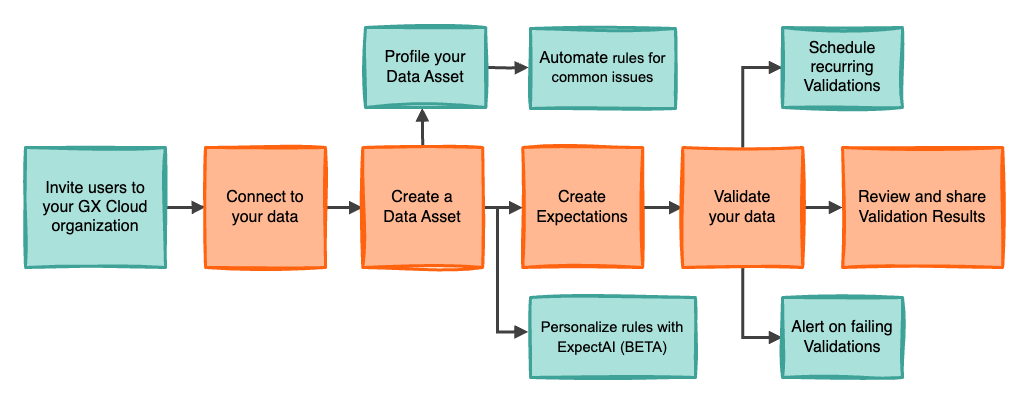
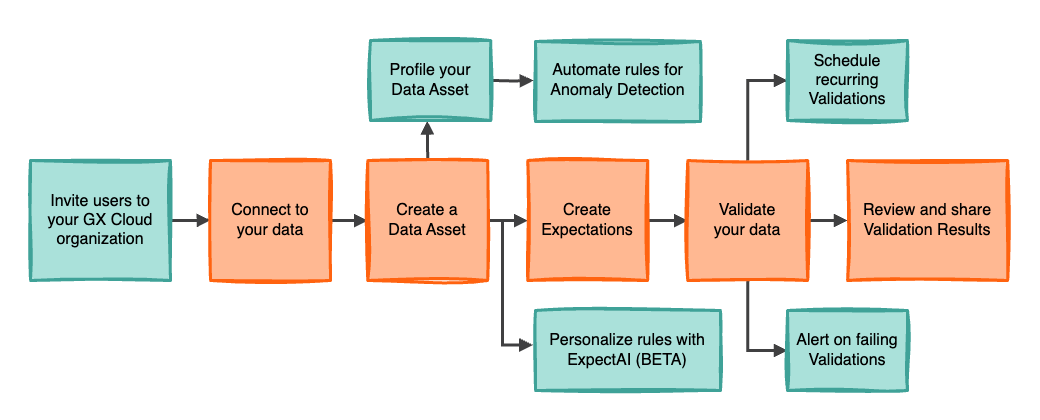
[DOCS] Anomaly Detection (#11172)

Pull request: [DOCS] Anomaly Detection
Resolves https://greatexpectations.atlassian.net/browse/DOC-1127 according to the plan linked in that issue

- [x] Description of PR changes above includes a link to [an existing GitHub issue](https://github.com/great-expectations/great_expectations/issues)
- [x] PR title is prefixed with one of: [BUGFIX], [FEATURE], [DOCS], [MAINTENANCE], [CONTRIB], [MINORBUMP]
- [ ] Code is linted - run `invoke lint` (uses `ruff format` + `ruff check`)
- [x] Appropriate tests and docs have been updated

For more information about contributing, visit our [community resources](https://docs.greatexpectations.io/docs/core/introduction/community_resources#contribute-code-or-documentation).

After you submit your PR, keep the page open and **monitor the statuses of the various checks made by our continuous integration process at the bottom of the page. Please fix any issues that come up** and [reach out on Slack](https://greatexpectations.io/slack) if you need help. Thanks for contributing!

Changed region(s): [[0.0, 0.0597, 0.9942, 0.9552], [0.3417, 0.0597, 0.6835, 0.3284], [0.8388, 0.7164, 0.8699, 0.7463]]

diff --git a/docs/docusaurus/docs/cloud/expectations/manage_expectations.md b/docs/docusaurus/docs/cloud/expectations/manage_expectations.md
@@ -134,8 +134,8 @@ To clear the Expectation condition, click the clear button located on the right-
 
 8. Optional. Run a Validation. See [Run a Validation](/cloud/validations/manage_validations.md#run-a-validation).
 
-:::tip Automate rules for common data quality issues
-When you [create a new Data Asset](/cloud/data_assets/manage_data_assets.md#add-a-data-asset-from-an-existing-data-source), you can choose to automatically generate Expectations for that Data Asset that detect column changes, non-increasing volume, and changes to the percentage of null values in each column.
+:::tip Automate rules for Anomaly Detection
+When you [create a new Data Asset](/cloud/data_assets/manage_data_assets.md#add-a-data-asset-from-an-existing-data-source), you can choose to automatically generate Anomaly Detection Expectations for that Data Asset that detect column changes, non-increasing volume, and changes to the percentage of null values in each column.
 :::
 
 ## Generate Expectations with ExpectAI <span class="beta">Beta</span>
@@ -166,7 +166,7 @@ If your Data Asset has at least one DATE or DATETIME column, you can define a Ba
 
 2. In the **Data Assets** list, click the Data Asset name.
 
-3. Click **Define batch**.
+3. Next to the current batch configuration, click <img src="/img/pencil.png" alt="pencil icon" width="20" height="20"/> **Edit batch**.
 
 4. Choose how to **Validate by**. Select the **Entire Asset** tab to provide all Data Asset records to your Expectations and validations, or select one of the **Year**/**Month**/**Day** tabs to use subsets of Data Asset records for your Expectations and validations. **Year** partitions Data Asset records by year, **Month** partitions Data Asset records by year and month, **Day** partitions Data Asset records by year, month, and day.
 
@@ -178,11 +178,13 @@ If your Data Asset has at least one DATE or DATETIME column, you can define a Ba
 
 2. In the **Data Assets** list, click the Data Asset name.
 
-3. Click **Edit Expectation** for the Expectation that you want to edit.
+3. Find the Expectation that you want to edit.
 
-4. Edit the Expectation configuration.
+4. Click <img src="/img/pencil.png" alt="pencil icon" width="20" height="20"/> **Edit Expectation** for the Expectation that you want to edit.
 
-5. Click **Save**.
+5. Edit the Expectation configuration.
+
+6. Click **Save**.
 
 ## Delete an Expectation
 
@@ -190,13 +192,15 @@ If your Data Asset has at least one DATE or DATETIME column, you can define a Ba
 
 2. In the **Data Assets** list, click the Data Asset name.
 
-3. Click **Delete Expectation** for the Expectation you want to delete.
+3. Find the Expectation that you want to delete.
+
+4. Click <img src="/img/trash.png" alt="trash icon" width="20" height="20"/> **Delete Expectation** for the Expectation that you want to delete.
 
    :::tip You can delete Expectations in bulk
-    If you want to delete all Expectations that test for a certain data quality issue, you can instead click **Bulk-delete Expectations** for the relevant category.
+    If you want to delete all Expectations that test for a certain data quality issue, you can instead click <img src="/img/trash.png" alt="trash icon" width="20" height="20"/> **Bulk-delete Expectations** for the relevant category.
     :::
 
-4. Click **Yes, delete Expectation**.
+5. Click **Delete**.
 
 
 

diff --git a/docs/docusaurus/docs/cloud/overview/automating_rules.md b/docs/docusaurus/docs/cloud/overview/automating_rules.md
@@ -1,16 +1,16 @@
 ---
 title: 'Automating data quality rules'
-description: Generate data quality rules to more quickly achieve test coverage for your data.
+description: Generate AI-recommended data quality rules and use Anomaly Detection to more quickly achieve test coverage for your data.
 ---
 
 With GX Cloud, you can automatically generate data quality rules to more quickly achieve test coverage for your data. This page provides an overview of the following options:
 
-- Automating [standard rules](#monitoring-common-issues) as part of adding a new Data Asset.
-- Generating [personalized AI-recommended rules](#personalizing-recommendations-with-expectai-beta) for an existing Data Asset.
+- Automating [Anomaly Detection](#anomaly-detection) rules as part of adding a new Data Asset.
+- Generating [personalized AI-recommended rules](#personalized-recommendations-with-expectai-beta) for an existing Data Asset.
 
-## Monitoring common issues
+## Anomaly Detection
 
-When you [add a new Data Asset](/cloud/data_assets/manage_data_assets.md), GX Cloud by default generates Expectations to test the following common data quality issues:
+When you [add a new Data Asset](/cloud/data_assets/manage_data_assets.md), GX Cloud by default generates Expectations to detect anomalies in the following:
 - [Schema](#schema)
 - [Volume](#volume)
 - [Completeness](#completeness)
@@ -19,7 +19,7 @@ When you [add a new Data Asset](/cloud/data_assets/manage_data_assets.md), GX Cl
 
 ### Schema
 
-To detect schema changes, we automatically generate a rule to [**expect table columns to match set**](/reference/learn/data_quality_use_cases/schema.md#expect-table-columns-to-match-set) using the Data Asset’s initial columns as the set to match. If the number or names of columns in the Data Asset change, this Expectation will fail.
+To detect schema anomalies, we automatically generate a rule to [**expect table columns to match set**](/reference/learn/data_quality_use_cases/schema.md#expect-table-columns-to-match-set) using the Data Asset’s initial columns as the set to match. If the number or names of columns in the Data Asset change, this Expectation will fail.
 
 ### Volume
 
@@ -27,7 +27,7 @@ To detect non-increasing volume, we automatically generate a rule to [**expect t
 
 ### Completeness
 
-To detect completeness changes, we automatically generate rules for every column to [**expect column values to not be null**](/reference/learn/data_quality_use_cases/missingness.md#expect-column-values-to-not-be-null) and/or [**expect column values to be null**](/reference/learn/data_quality_use_cases/missingness.md#expect-column-values-to-be-null). The Expectation(s) and parameters for a column depend on the column's initial null percentage.
+To detect completeness anomalies, we automatically generate rules for every column to [**expect column values to not be null**](/reference/learn/data_quality_use_cases/missingness.md#expect-column-values-to-not-be-null) and/or [**expect column values to be null**](/reference/learn/data_quality_use_cases/missingness.md#expect-column-values-to-be-null). The Expectation(s) and parameters for a column depend on the column's initial null percentage.
 
 - If a column initially has no null values, GX generates one completeness Expectation to test that the column continues to have 100% non-null values.
 - If a column initially has all null values, GX generates one completeness Expectation to test that the column continues to have 100% null values.
@@ -37,7 +37,7 @@ If the null percentage changes at all for a column that started with all null va
 
 
 
-## Personalizing recommendations with ExpectAI <span class="beta">Beta</span>
+## Personalized recommendations with ExpectAI <span class="beta">Beta</span>
 
 [ExpectAI (BETA)](/cloud/expectations/manage_expectations.md#generate-expectations-with-expectai-beta) performs deep analysis on a given Data Asset to set Expectations based on patterns in the data. These AI-recommended data quality rules are sometimes based on anomalies detected in the data, so they may fail on the first validation to bring your attention to potential problems.  
 

diff --git a/docs/docusaurus/docs/reference/learn/data_quality_use_cases/schema.md b/docs/docusaurus/docs/reference/learn/data_quality_use_cases/schema.md
@@ -17,7 +17,7 @@ established rules, such as verifying column names, data types, and the presence 
 Schema changes, whether planned or unexpected, can significantly impact data integrity and the
 performance of data-dependent systems.
 
-Great Expectations (GX) provides schema-focused Expectations that allow you to define and enforce the structural integrity of your datasets. You can automatically generate some of these Expectations when you add a new Data Asset in GX Cloud. These tools enable you to establish robust schema validation within your data pipelines, helping to catch and address schema-related issues before they propagate through your data ecosystem. This guide will walk you through leveraging these Expectations to implement effective schema validation in your data workflows.
+Great Expectations (GX) provides schema-focused Expectations that allow you to define and enforce the structural integrity of your datasets. You can enable Anomaly Detection to automatically generate some of these Expectations when you add a new Data Asset in GX Cloud. These tools enable you to establish robust schema validation within your data pipelines, helping to catch and address schema-related issues before they propagate through your data ecosystem. This guide will walk you through leveraging these Expectations to implement effective schema validation in your data workflows.
 
 ## Prerequisite knowledge
 This article assumes basic familiarity with GX components and workflows. See the [GX Overview](/core/introduction/gx_overview.md) for additional content on GX fundamentals.
@@ -37,7 +37,7 @@ You can [access this dataset](https://raw.githubusercontent.com/great-expectatio
 
 ## Key schema Expectations
 
-GX offers a collection of Expectations for schema validation, all of which can be added directly from the GX Cloud UI or using the GX Core Python library. Some of them can be automatically generated when you add a new Data Asset using GX Cloud. 
+GX offers a collection of Expectations for schema validation, all of which can be added directly from the GX Cloud UI or using the GX Core Python library. Some of them can be automatically generated by enabling Anomaly Detection when you add a new Data Asset using GX Cloud. 
 
 The schema Expectations provide basic practical solutions for common validation scenarios and can also be used to satisfy more nuanced validation needs.
 
@@ -139,7 +139,7 @@ flexibility where column presence is more critical than their sequence.
 ```
 
 :::tip Automate this rule
-When you [create a new Data Asset with GX Cloud](/cloud/data_assets/manage_data_assets.md#add-a-data-asset-from-an-existing-data-source), you can choose to automatically generate this Expectation to test that columns don't diverge from the initial set over time.
+When you [create a new Data Asset with GX Cloud](/cloud/data_assets/manage_data_assets.md#add-a-data-asset-from-an-existing-data-source), you can enable Anomaly Detection to automatically generate this Expectation to test that columns don't diverge from the initial set over time.
 :::
 
 <small>View `ExpectTableColumnsToMatchSet` in the [Expectation
@@ -173,7 +173,7 @@ Gallery](https://greatexpectations.io/expectations/expect_table_column_count_to_
 
 ## Examples
 
-**GX Cloud** provides a visual interface to create and run schema validation workflows. The GX Cloud workflow for validating data schemas is to create Data Assets with automatically generated Expectations, manually define additional Expectations, run Validations, and review Validation Results.
+**GX Cloud** provides a visual interface to create and run schema validation workflows. The GX Cloud workflow for validating data schemas is to create Data Assets with automatically generated Anomaly Detection Expectations, manually define additional Expectations, run Validations, and review Validation Results.
 
 **GX Core** can be used to complement and extend the capabilities of GX Cloud to programmatically implement custom validation workflows. The examples provided in this section feature use cases that leverage GX Core to achieve schema validation.
 

diff --git a/docs/docusaurus/docs/cloud/schedules/manage_schedules.md b/docs/docusaurus/docs/cloud/schedules/manage_schedules.md
@@ -4,7 +4,7 @@ title: 'Manage schedules'
 description: Create and manage schedules for Validations in GX Cloud.
 ---
 
-Use a schedule to automate data quality checks with GX-managed Expectations. When you add your first Expectation in the GX Cloud UI for a Data Asset, including when you choose to auto-generate Expectations, we enable a default schedule for that Asset's GX-managed Expectations. By default, GX-managed Expectations are scheduled to run every 24 hours. The first run will be at the start of the next hour after you add your first Expectation in the Cloud UI. You can keep the default schedule, edit it, or disable it.
+Use a schedule to automate data quality checks with GX-managed Expectations. When you add your first Expectation in the GX Cloud UI for a Data Asset, including when you choose to auto-generate Expectations for Anomaly Detection, we enable a default schedule for that Asset's GX-managed Expectations. By default, GX-managed Expectations are scheduled to run every 24 hours. The first run will be at the start of the next hour after you add your first Expectation in the Cloud UI. You can keep the default schedule, edit it, or disable it.
 
 :::note Schedules are for GX-managed Expectations only
 To automate data quality checks for [API-managed Expectations](/cloud/expectations/manage_expectations.md#gx-managed-vs-api-managed-expectations), use an [orchestrator](/cloud/connect/connect_airflow.md).
@@ -17,7 +17,7 @@ To automate data quality checks for [API-managed Expectations](/cloud/expectatio
 
 2. In the **Data Assets** list, click the Data Asset name.
 
-3. In the Scheduling component, click **Edit schedule**.
+3. Next to the current schedule, click <img src="/img/pencil.png" alt="pencil icon" width="20" height="20"/> **Edit schedule**.
 
 4. Change the **Frequency** and/or the **Start time** for the first run of the new schedule.
 
@@ -29,7 +29,7 @@ To automate data quality checks for [API-managed Expectations](/cloud/expectatio
 
 2. In the **Data Assets** list, click the Data Asset name.
 
-3. In the Scheduling component, click **Edit schedule**.
+3. Next to the current schedule, click <img src="/img/pencil.png" alt="pencil icon" width="20" height="20"/> **Edit schedule**.
 
 4. Pause the schedule using the **ON**/**OFF** toggle.
 

diff --git a/docs/docusaurus/docs/reference/learn/data_quality_use_cases/missingness.md b/docs/docusaurus/docs/reference/learn/data_quality_use_cases/missingness.md
@@ -5,7 +5,7 @@ title: 'Manage missing data with GX'
 
 Missing data, also known as missingness, poses a significant challenge in data quality management. Missing data occurs when expected information is absent from a dataset, often appearing as `NULL` values in databases or manifesting differently across various systems. Effectively managing this issue is crucial for maintaining data integrity and reliability since unaddressed missing data can lead to disrupted calculations, skewed analyses, and compromised data analytics tasks.
 
-Great Expectations (GX) offers a robust solution for addressing missing data through a comprehensive collection of Expectations that allow users to define and enforce data quality rules. You can automatically generate these Expectations when you add a new Data Asset in GX Cloud. By integrating GX into your data pipelines, you can establish robust validation processes that catch issues early, ensuring your dataset remains clean, consistent, and ready for accurate reporting, predictive modeling, and other advanced analytics applications.
+Great Expectations (GX) offers a robust solution for addressing missing data through a comprehensive collection of Expectations that allow users to define and enforce data quality rules. You can enable Anomaly Detection to automatically generate these Expectations when you add a new Data Asset in GX Cloud. By integrating GX into your data pipelines, you can establish robust validation processes that catch issues early, ensuring your dataset remains clean, consistent, and ready for accurate reporting, predictive modeling, and other advanced analytics applications.
 
 In this guide, you will learn how to leverage GX to effectively handle missing data. This includes applying Expectations and making informed decisions about managing various types of missingness. By following these steps, you can ensure your datasets maintain high quality, thus enabling more accurate and reliable data-driven insights.
 
@@ -29,7 +29,7 @@ In this dataset, you'll notice missing data in the `type` and `transfer_date` co
 GX provides missingness-focused Expectations to manage missing data in your datasets. These Expectations can be created using the GX Cloud UI or the GX Core Python library. 
 
 :::tip Automate these rules
-When you [create a new Data Asset](/cloud/data_assets/manage_data_assets.md#add-a-data-asset-from-an-existing-data-source), you can choose to automatically generate Expectations for each column to test that column completeness doesn't change drastically between Validation runs.
+When you [create a new Data Asset](/cloud/data_assets/manage_data_assets.md#add-a-data-asset-from-an-existing-data-source), you can enable Anomaly Detection to automatically generate Expectations for each column to test that column completeness doesn't change drastically between Validation runs.
 :::
 
 ### Expect Column Values To Not Be Null
@@ -66,7 +66,7 @@ Ensures that values within a column are `NULL`.
 
 The examples given in this section provide insight into how and when to apply missingness Expectations to identify different varieties of missing data. The focus of this guidance is on the specifics of the Expectations, rather than the overall workflow, which can be implemented using either GX Cloud or GX Core.
 
-[GX Cloud](/cloud/overview/gx_cloud_overview.md) provides a visual interface and scaling conveniences to create and run workflows for managing missing data. The GX Cloud workflow to handle data missingness is: create a Data Asset with automatically generated Expectations, run a Validation, and review Validation Results.
+[GX Cloud](/cloud/overview/gx_cloud_overview.md) provides a visual interface and scaling conveniences to create and run workflows for managing missing data. The GX Cloud workflow to handle data missingness is: create a Data Asset with automatically generated Anomaly Detection Expectations, run a Validation, and review Validation Results.
 
 [GX Core](/core/introduction/gx_overview.md) can be used to complement and extend the capabilities of GX Cloud to programmatically implement custom workflows for handling missing data.
 

diff --git a/docs/docusaurus/docs/reference/learn/data_quality_use_cases/volume.md b/docs/docusaurus/docs/reference/learn/data_quality_use_cases/volume.md
@@ -7,7 +7,7 @@ import TabItem from '@theme/TabItem';
 
 Data volume, a critical aspect of data quality, refers to the quantity of records or data points within a dataset. Managing data volume effectively is crucial for maintaining data integrity, ensuring system performance, and deriving accurate insights. Unexpected changes in data volume can signal issues in data collection, processing, or storage, potentially leading to skewed analyses or system failures. Volume management is intrinsically linked to other aspects of data quality, such as data completeness and consistency, forming a crucial part of a comprehensive data quality strategy.
 
-Great Expectations (GX) offers a powerful set of tools for monitoring and validating data volume through its volume-focused Expectations. You can automatically generate some of these Expectations when you add a new Data Asset in GX Cloud. By integrating these Expectations into your data pipelines, you can establish robust checks that ensure your datasets maintain the expected volume, catch anomalies early, and prevent downstream issues in your data workflows.
+Great Expectations (GX) offers a powerful set of tools for monitoring and validating data volume through its volume-focused Expectations. You can enable Anomaly Detection to automatically generate some of these Expectations when you add a new Data Asset in GX Cloud. By integrating these Expectations into your data pipelines, you can establish robust checks that ensure your datasets maintain the expected volume, catch anomalies early, and prevent downstream issues in your data workflows.
 
 This guide will walk you through leveraging GX to effectively manage and validate data volume, helping you maintain high-quality, reliable datasets.
 
@@ -28,7 +28,7 @@ This dataset represents daily financial transactions. In a real-world scenario, 
 
 ## Key volume Expectations
 
-GX provides several Expectations specifically designed for managing data volume, all of which can be added directly from the GX Cloud UI or using the GX Core Python library. Some of them can be automatically generated when you add a new Data Asset using GX Cloud.
+GX provides several Expectations specifically designed for managing data volume, all of which can be added directly from the GX Cloud UI or using the GX Core Python library. Some of them can be automatically generated by enabling Anomaly Detection when you add a new Data Asset using GX Cloud.
 
 ### Expect Table Row Count To Be Between
 
@@ -40,7 +40,7 @@ Ensures that the number of rows in a dataset falls within a specified range.
 ```
 
 :::tip Automate this rule
-When you [create a new Data Asset with GX Cloud](/cloud/data_assets/manage_data_assets.md#add-a-data-asset-from-an-existing-data-source), you can choose to automatically generate an instance of this Expectation that detects non-increasing volume over time.
+When you [create a new Data Asset with GX Cloud](/cloud/data_assets/manage_data_assets.md#add-a-data-asset-from-an-existing-data-source), you can enable Anomaly Detection to automatically generate an instance of this Expectation that detects non-increasing volume over time.
 :::
 
 <small>View `ExpectTableRowCountToBeBetween` in the [Expectation Gallery](https://greatexpectations.io/expectations/expect_table_row_count_to_be_between).</small>

diff --git a/docs/docusaurus/docs/cloud/connect/connect_databrickssql.md b/docs/docusaurus/docs/cloud/connect/connect_databrickssql.md
@@ -35,7 +35,7 @@ import Tabs from '@theme/Tabs';
 
 6. Click **Add x Asset(s)**.
 
-7. Decide which [common data quality issues](/docs/cloud/overview/automating_rules.md#monitoring-common-issues) you want to start monitoring. By default, GX Cloud adds Expectations to detect **Schema**, **Volume**, and **Completeness** issues. You can de-select recommendations you’d like to opt out of.
+7. Decide which [Anomaly Detection](/docs/cloud/overview/automating_rules.md#anomaly-detection) options you want to enable. By default, GX Cloud adds Expectations to detect **Schema**, **Volume**, and **Completeness** anomalies. You can de-select recommendations you’d like to opt out of.
 
 8. Click **Start monitoring** or **Finish**.
 

diff --git a/docs/docusaurus/docs/cloud/connect/connect_postgresql.md b/docs/docusaurus/docs/cloud/connect/connect_postgresql.md
@@ -60,7 +60,7 @@ import Tabs from '@theme/Tabs';
 
 6. Click **Add x Asset(s)**.
 
-7. Decide which [common data quality issues](/docs/cloud/overview/automating_rules.md#monitoring-common-issues) you want to start monitoring. By default, GX Cloud adds Expectations to detect **Schema**, **Volume**, and **Completeness** issues. You can de-select recommendations you’d like to opt out of.
+7. Decide which [Anomaly Detection](/docs/cloud/overview/automating_rules.md#anomaly-detection) options you want to enable. By default, GX Cloud adds Expectations to detect **Schema**, **Volume**, and **Completeness** anomalies. You can de-select recommendations you’d like to opt out of.
 
 8. Click **Start monitoring** or **Finish**.
 

diff --git a/docs/docusaurus/docs/cloud/connect/connect_redshift.md b/docs/docusaurus/docs/cloud/connect/connect_redshift.md
@@ -101,7 +101,7 @@ Run all queries in the [Amazon Redshift query editor v2](https://docs.aws.amazon
 
 7. Click **Add x Asset(s)**.
 
-8. Decide which [common data quality issues](/docs/cloud/overview/automating_rules.md#monitoring-common-issues) you want to start monitoring. By default, GX Cloud adds Expectations to detect **Schema**, **Volume**, and **Completeness** issues. You can de-select recommendations you'd like to opt out of.
+8. Decide which [Anomaly Detection](/docs/cloud/overview/automating_rules.md#anomaly-detection) options you want to enable. By default, GX Cloud adds Expectations to detect **Schema**, **Volume**, and **Completeness** anomalies. You can de-select recommendations you’d like to opt out of.
 
 9. Click **Start monitoring** or **Finish**.
 

diff --git a/docs/docusaurus/docs/cloud/connect/connect_snowflake.md b/docs/docusaurus/docs/cloud/connect/connect_snowflake.md
@@ -109,7 +109,7 @@ Then, you can use GX Cloud to [add a Data Asset](/cloud/data_assets/manage_data_
 
 7. Click **Add x Asset(s)**.
 
-8. Decide which [common data quality issues](/docs/cloud/overview/automating_rules.md#monitoring-common-issues) you want to start monitoring. By default, GX Cloud adds Expectations to detect **Schema**, **Volume**, and **Completeness** issues. You can de-select recommendations you’d like to opt out of.
+8. Decide which [Anomaly Detection](/docs/cloud/overview/automating_rules.md#anomaly-detection) options you want to enable. By default, GX Cloud adds Expectations to detect **Schema**, **Volume**, and **Completeness** anomalies. You can de-select recommendations you’d like to opt out of.
 
 9. Click **Start monitoring** or **Finish**.
 

diff --git a/docs/docusaurus/docs/cloud/data_assets/manage_data_assets.md b/docs/docusaurus/docs/cloud/data_assets/manage_data_assets.md
@@ -24,7 +24,7 @@ To add a Data Asset from an existing Data Source, complete the following steps:
 
 4. Click **Add x Asset(s)**.
 
-5. Decide which [common data quality issues](/docs/cloud/overview/automating_rules.md#monitoring-common-issues) you want to start monitoring. By default, GX Cloud adds Expectations to detect **Schema**, **Volume**, and **Completeness** issues. You can de-select recommendations you’d like to opt out of.
+5. Decide which [Anomaly Detection](/docs/cloud/overview/automating_rules.md#anomaly-detection) options you want to enable. By default, GX Cloud adds Expectations to detect **Schema**, **Volume**, and **Completeness** anomalies. You can de-select recommendations you’d like to opt out of.
 
 6. Click **Start monitoring** or **Finish**.
 

diff --git a/docs/docusaurus/docs/cloud/overview/coverage_health.md b/docs/docusaurus/docs/cloud/overview/coverage_health.md
@@ -43,5 +43,5 @@ Only current Data Assets are considered in coverage health metrics. Deleted Data
 ## Next steps
 - If **Active Data Assets** are low, [schedule recurring Validations](/cloud/schedules/manage_schedules.md).
 - If **Schema**, **Volume**, or **Completeness** coverage is low, [add Expectations](/cloud/expectations/manage_expectations.md#add-an-expectation).
-- When adding new Data Assets, [automate standard data quality rules](/cloud/overview/automating_rules.md).
+- When adding new Data Assets, [automate rules for Anomaly Detection](/cloud/overview/automating_rules.md).
 